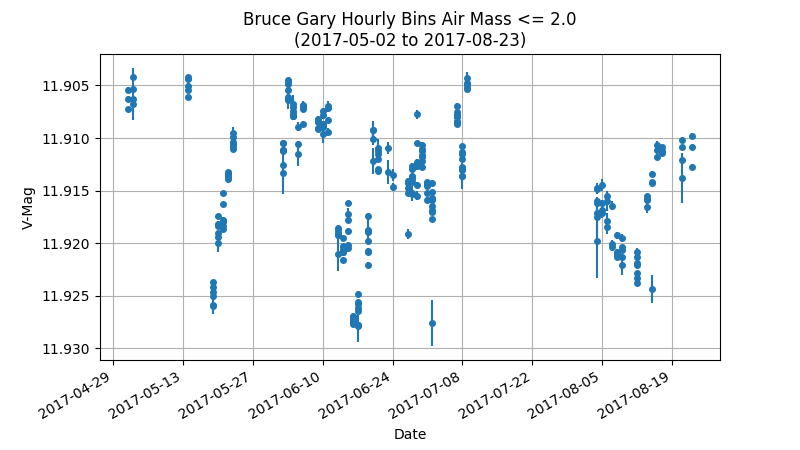
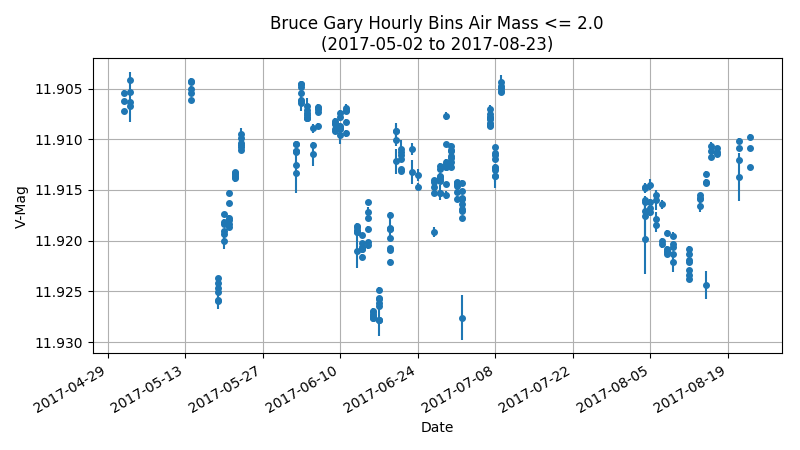
Added Elsie, Celeste, and Skara Brae using hourly binned data

diff --git a/combine_data.py b/combine_data.py
@@ -8,8 +8,10 @@ import scipy.optimize as opt
 
 
 start_mag = 11.905
-# excluded short term dips based on https://www.reddit.com/r/KIC8462852/wiki/faq/timeline
 dip_mjd_ranges = [[57891.,57897.],[57915.,57940.],[57964.,57981.]]
+elsie_range = [[57875.,57908.]]
+celeste_range = [[57910.,57930.]]
+skara_brae_range = [[57969.,57988.]]
 
 def main():
     header = [['MJD','V-mag','SE','air mass']]
@@ -33,11 +35,21 @@ def main():
     hourly_bins = get_bins(combined_good_air,60*60)
     write_csv(header2+hourly_bins,"bruce_gary_raw_data_good_air_hourly_bins")
     scatter_plot(hourly_bins,plot_name="scatter_good_air_hourly_bins", plot_title="Bruce Gary Hourly Bins Air Mass <= 2.0",marker_size=16)
+
+    elsie_hourly_bins = include_data(hourly_bins,elsie_range)
+    scatter_plot(elsie_hourly_bins,plot_name="scatter_good_air_hourly_bins_elsie", plot_title="Bruce Gary Hourly Bins Elsie Air Mass <= 2.0",marker_size=16)
+
+    celeste_hourly_bins = include_data(hourly_bins,celeste_range)
+    scatter_plot(celeste_hourly_bins,plot_name="scatter_good_air_hourly_bins_celeste", plot_title="Bruce Gary Hourly Bins Celeste Air Mass <= 2.0",marker_size=16)
+
+    skara_brae_hourly_bins = include_data(hourly_bins,skara_brae_range)
+    scatter_plot(skara_brae_hourly_bins,plot_name="scatter_good_air_hourly_bins_skara_brae", plot_title="Bruce Gary Hourly Bins Skara Brae Air Mass <= 2.0",marker_size=16)
+
     #print(daily_bins)
-    dips_excluded = exclude_dips(combined_good_air)
+    dips_excluded = exclude_data(combined_good_air, dip_mjd_ranges)
     daily_bins_dips_excluded = get_bins(dips_excluded,60*60*24)
     write_csv(header2+daily_bins_dips_excluded,"bruce_gary_raw_data_good_air_daily_bins_dips_excluded")
-    scatter_plot(daily_bins_dips_excluded,plot_name="scatter_good_air_daily_bins_dips_excluded", plot_title="Bruce Gary Daily Bins (Dips Excluded) Air Mass <= 2.0",marker_size=16,fit_type="linear")
+    scatter_plot(daily_bins_dips_excluded,plot_name="scatter_good_air_daily_bins_dips_excluded", plot_title="Bruce Gary Daily Bins (Dips Excluded) Air Mass <= 2.0",marker_size=16,fit_type="gaussian")
 
 def get_bins(data_list,bin_seconds):
     #data_list = filter_to_mjd(data_list,mjd)
@@ -84,38 +96,6 @@ def get_bins(data_list,bin_seconds):
         binned.append([time_avg,mag_avg,se_avg,airmass_avg,bin_counts[i],uncertainty])
     return binned
 
-# def get_daily_binned_data(data):
-#     days = []
-#     day_time_sum = []
-#     day_mag_sum = []
-#     day_se_sum = []
-#     day_airmass_sum = []
-#     day_counts = []
-#     for i in range(len(data)):
-#         x = int(float(data[i][0]))
-#         if(x not in days):
-#             days.append(x)
-#             day_time_sum.append(0)
-#             day_mag_sum.append(0)
-#             day_se_sum.append(0)
-#             day_airmass_sum.append(0)
-#             day_counts.append(0)
-#         index = days.index(x)
-#         day_time_sum[index] += float(data[i][0])
-#         day_mag_sum[index] += float(data[i][1])
-#         day_se_sum[index] += float(data[i][2])
-#         day_airmass_sum[index] += float(data[i][3])
-#         day_counts[index] += 1
-#     binned = []
-#     for i in range(len(days)):
-#         time_avg = day_time_sum[i]/day_counts[i]
-#         mag_avg = day_mag_sum[i]/day_counts[i]
-#         se_avg = day_se_sum[i]/day_counts[i]
-#         airmass_avg = day_airmass_sum[i]/day_counts[i]
-#         uncertainty = se_avg/math.sqrt(day_counts[i])
-#         binned.append([time_avg,mag_avg,se_avg,airmass_avg,day_counts[i],uncertainty])
-#     return binned
-
 def filter_by_air_mass(data):
     filtered = []
     for i in range(1,len(data)):
@@ -159,7 +139,7 @@ def scatter_plot(combined, plot_name, plot_title, marker_size, fit_type="none"):
         plt.scatter(x, y, s=marker_size, marker='o')
     else:
         plt.errorbar(x=x,y=y, yerr=error, fmt='o',markersize=4.0)
-    #plt.tight_layout()
+    plt.tight_layout()
     plt.rcParams["figure.figsize"] = (8, 4.5)
 
     #x_inc, y_inc = exclude_dips(x_float,y)
@@ -180,19 +160,28 @@ def scatter_plot(combined, plot_name, plot_title, marker_size, fit_type="none"):
     plt.savefig("SavedPlots/" + plot_name + ".png")
     plt.show()
 
-def exclude_dips(data):
+def exclude_data(data, excluded_ranges):
     data_inc = []
-    exclude_count = 0
     for i in range(1,len(data)):
         exclude = 0
-        for j in range(len(dip_mjd_ranges)):
-            if float(data[i][0]) >= dip_mjd_ranges[j][0] and float(data[i][0]) <= dip_mjd_ranges[j][1]:
-                exclude_count += 1
+        for j in range(len(excluded_ranges)):
+            if float(data[i][0]) >= excluded_ranges[j][0] and float(data[i][0]) <= excluded_ranges[j][1]:
                 exclude = 1
         if exclude == 0:
             data_inc.append([data[i][0],data[i][1],data[i][2],data[i][3]])
     data_inc = np.array(data_inc)
-    print("excluded for fitting: ", exclude_count)
+    return data_inc
+
+def include_data(data, included_ranges):
+    data_inc = []
+    for i in range(1,len(data)):
+        include = 0
+        for j in range(len(included_ranges)):
+            if float(data[i][0]) >= included_ranges[j][0] and float(data[i][0]) <= included_ranges[j][1]:
+                include = 1
+        if include == 1:
+            data_inc.append([data[i][0],data[i][1],data[i][2],data[i][3]])
+    data_inc = np.array(data_inc)
     return data_inc
 
 def mjddates_to_gregoriandates(mjd):
